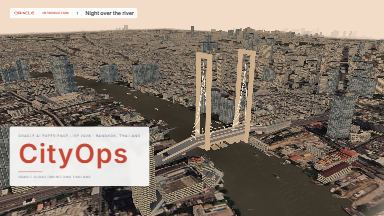
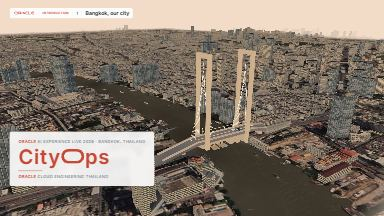
Title card: the Oracle O in CityOps, balanced sizes, Oracle in red

diff --git a/src/overlay/concepts/TitleCard.tsx b/src/overlay/concepts/TitleCard.tsx
@@ -2,18 +2,34 @@ import { motion } from 'motion/react';
 
 const EASE = [0.2, 0.8, 0.2, 1] as const;
 
+/** the O of the Oracle logo (public/art/logo.svg), used as the O of "Ops" (owner, 25 Oct) */
+function OracleO() {
+  return (
+    <svg className="title__o" viewBox="5.12945 5.15975 20.17485 12.76355" aria-hidden="true">
+      <path
+        fill="currentColor"
+        d="M11.5142 17.9233 18.9331 17.9233C22.4625 17.9233 25.3043 15.0718 25.3043 11.5464 25.3043 8.01715 22.4625 5.15975 18.9331 5.15975L11.5142 5.15975C7.98886 5.15975 5.12945 8.01715 5.12945 11.5464 5.12945 15.0718 7.98886 17.9233 11.5142 17.9233M18.7633 15.6772 11.6774 15.6772C9.39705 15.6772 7.54935 13.8237 7.54935 11.5464 7.54935 9.25935 9.39705 7.41555 11.6774 7.41555L18.7633 7.41555C21.0513 7.41555 22.8971 9.25935 22.8971 11.5464 22.8971 13.8237 21.0513 15.6772 18.7633 15.6772"
+      />
+    </svg>
+  );
+}
+
+const Oracle = () => <span className="title__oracle">Oracle</span>;
+
 export function TitleCard() {
   return (
     <div className="title">
       <motion.div className="title__kicker" initial={{ opacity: 0, y: 8 }} animate={{ opacity: 1, y: 0 }} transition={{ duration: 0.6, ease: EASE }}>
-        Oracle AI Experience Live 2026 · Bangkok, Thailand
+        <Oracle /> AI Experience Live 2026 · Bangkok, Thailand
       </motion.div>
-      <motion.h1 className="title__word" initial={{ opacity: 0, y: 18, letterSpacing: '0.2em' }} animate={{ opacity: 1, y: 0, letterSpacing: '0.04em' }} transition={{ duration: 1.1, ease: EASE, delay: 0.15 }}>
-        CityOps
+      <motion.h1 className="title__word" aria-label="CityOps" initial={{ opacity: 0, y: 18, letterSpacing: '0.2em' }} animate={{ opacity: 1, y: 0, letterSpacing: '0.04em' }} transition={{ duration: 1.1, ease: EASE, delay: 0.15 }}>
+        City
+        <OracleO />
+        ps
       </motion.h1>
       <motion.div className="title__rule" initial={{ scaleX: 0 }} animate={{ scaleX: 1 }} transition={{ duration: 0.9, ease: EASE, delay: 0.6 }} />
       <motion.div className="title__org" initial={{ opacity: 0 }} animate={{ opacity: 1 }} transition={{ duration: 0.8, delay: 1.4 }}>
-        Oracle Cloud Engineering Thailand
+        <Oracle /> Cloud Engineering Thailand
       </motion.div>
     </div>
   );

diff --git a/src/styles.css b/src/styles.css
@@ -212,11 +212,15 @@ code,
 
 /* 0.1 title */
 .title { position: absolute; left: 48px; bottom: 120px; }
-.title__kicker { font-size: 16px; letter-spacing: 0.2em; text-transform: uppercase; color: var(--ink-dim); margin-bottom: 14px; }
-.title__word { margin: 0; font-size: 132px; font-weight: 600; line-height: 1; color: var(--red); letter-spacing: 0.04em; }
-.title__rule { width: 120px; height: 2px; background: var(--red); margin: 22px 0 16px; transform-origin: left; }
+/* owner, 25 Oct: medium, big, medium (the word was gigantic between two tiny lines) */
+.title__kicker { font-size: 20px; letter-spacing: 0.07em; text-transform: uppercase; color: var(--ink-dim); margin-bottom: 14px; }
+.title__word { margin: 0; font-size: 100px; font-weight: 600; line-height: 1; color: var(--red); letter-spacing: 0.04em; white-space: nowrap; }
+/* the Oracle O as the O of Ops: cap height, on the baseline, a little wider than a letter */
+.title__o { display: inline-block; height: 0.727em; width: 1.149em; margin: 0 0.04em 0 0.02em; vertical-align: baseline; }
+.title__oracle { color: var(--red); font-weight: 600; }
+.title__rule { width: 120px; height: 2px; background: var(--red); margin: 20px 0 16px; transform-origin: left; }
 .title__sub { font-size: 28px; color: var(--ink); font-weight: 400; }
-.title__org { margin-top: 14px; font-size: 15px; letter-spacing: 0.12em; text-transform: uppercase; color: var(--ink-dim); }
+.title__org { margin-top: 14px; font-size: 20px; letter-spacing: 0.07em; text-transform: uppercase; color: var(--ink-dim); }
 
 /* 0.2 legend: the count, and the seven districts by name, at once */
 .legend { position: absolute; left: 48px; bottom: 170px; width: 470px; padding: 22px 26px; border-radius: 14px; background: var(--panel); font-size: 18px; }

diff --git a/tests/overlay/TitleCard.test.tsx b/tests/overlay/TitleCard.test.tsx
@@ -1,0 +1,31 @@
+import { render, screen } from '@testing-library/react';
+import { TitleCard } from '../../src/overlay/concepts/TitleCard';
+
+test('the O of CityOps is the Oracle O, and the word still reads CityOps', () => {
+  const { container } = render(<TitleCard />);
+  const h = screen.getByRole('heading', { name: 'CityOps' });
+  const o = h.querySelector('svg.title__o');
+  expect(o).not.toBeNull();
+  expect(o?.getAttribute('aria-hidden')).toBe('true');
+  expect(h.textContent).toBe('Cityps');
+  expect(container.textContent).toContain('Oracle Cloud Engineering Thailand');
+});
+
+test('the card is balanced: the two small lines are the same size, the word about five times that', async () => {
+  // @ts-expect-error node:fs has no type declarations here (vitest runs in node)
+  const css: string = (await import('node:fs')).readFileSync('src/styles.css', 'utf8');
+  const size = (cls: string) => Number(css.match(new RegExp(String.raw`\n\.${cls} \{[^}]*font-size: (\d+)px`))?.[1]);
+  expect(size('title__kicker')).toBe(size('title__org'));
+  const ratio = size('title__word') / size('title__kicker');
+  expect(ratio).toBeGreaterThan(4);
+  expect(ratio).toBeLessThan(6);
+});
+
+test('the word Oracle in both small lines is Oracle Red', async () => {
+  const { container } = render(<TitleCard />);
+  const marks = [...container.querySelectorAll('.title__oracle')].map((e) => e.textContent);
+  expect(marks).toEqual(['Oracle', 'Oracle']);
+  // @ts-expect-error node:fs has no type declarations here (vitest runs in node)
+  const css: string = (await import('node:fs')).readFileSync('src/styles.css', 'utf8');
+  expect(css).toMatch(/\n\.title__oracle \{[^}]*color: var\(--red\)/);
+});
